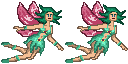
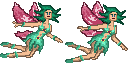
pixie pics change & helpscreen motif.

Changed region(s): [[0.0, 0.0, 0.5, 1.0]]

diff --git a/core/src/at/aau/game/screens/HelpScreen.java b/core/src/at/aau/game/screens/HelpScreen.java
@@ -15,7 +15,7 @@ import com.badlogic.gdx.graphics.g2d.SpriteBatch;
 
 public class HelpScreen extends ScreenAdapter {
 	private PixieSmack parentGame;
-	Texture backgroundImage;
+	Texture backgroundImage, goodPixie, badPixie, pixie;
 	BitmapFont menuFont;
 	BitmapFont describe;
 	private final OrthographicCamera cam;
@@ -47,6 +47,10 @@ public class HelpScreen extends ScreenAdapter {
 		
 		batch = new SpriteBatch();
 		
+		badPixie= new Texture(Gdx.files.internal("gameplay/bad_pixie.png"));
+		goodPixie= new Texture(Gdx.files.internal("gameplay/spec_pixie.png"));
+		pixie= new Texture(Gdx.files.internal("gameplay/pixie.png"));
+		
 	}
 	
 	@Override
@@ -64,6 +68,9 @@ public class HelpScreen extends ScreenAdapter {
 		
 		describe.draw(batch, collect, offsetLeft, PixieSmack.MENU_GAME_HEIGHT - offsetTop -0 * offsetY -120);
 
+		batch.draw(pixie, 1500,600);
+		batch.draw(goodPixie, 150,400);
+		batch.draw(badPixie, 150,200);
 		
 		batch.end();
 	}

diff --git a/core/src/at/aau/game/screens/MenuScreen.java b/core/src/at/aau/game/screens/MenuScreen.java
@@ -16,8 +16,6 @@ import com.badlogic.gdx.graphics.Texture;
 import com.badlogic.gdx.graphics.g2d.BitmapFont;
 import com.badlogic.gdx.graphics.g2d.SpriteBatch;
 import com.badlogic.gdx.math.Vector3;
-import com.badlogic.gdx.scenes.scene2d.ui.ImageButton;
-import com.badlogic.gdx.scenes.scene2d.ui.ImageButton.ImageButtonStyle;
 
 public class MenuScreen extends ScreenAdapter {
 	private final SpriteBatch batch;
@@ -48,6 +46,7 @@ public class MenuScreen extends ScreenAdapter {
 		cam.update();
 
 		batch = new SpriteBatch();
+		
 		
 		this.parentGame.getSoundManager().playEvent(GameConstants.INTRO_MUSIC);
 		//menuMusic = Gdx.audio.newMusic(Gdx.files.internal(GameConstants.MUSIC_INTRO));

diff --git a/core/src/at/aau/game/PixieSmack.java b/core/src/at/aau/game/PixieSmack.java
@@ -73,6 +73,9 @@ public class PixieSmack extends ApplicationAdapter {
 		}
 
 		// Entities
+		//assMan.load("gameplay/pixie.png", Texture.class);
+		//assMan.load("gameplay/goodPixie.png", Texture.class);
+		//assMan.load("gameplay/badPixie.png", Texture.class);
 		assMan.load("gameplay/spritesheet.png", Texture.class);
 		assMan.load("gameplay/smacker.png", Texture.class);
 		assMan.load("gameplay/smacker-anim.png", Texture.class);
